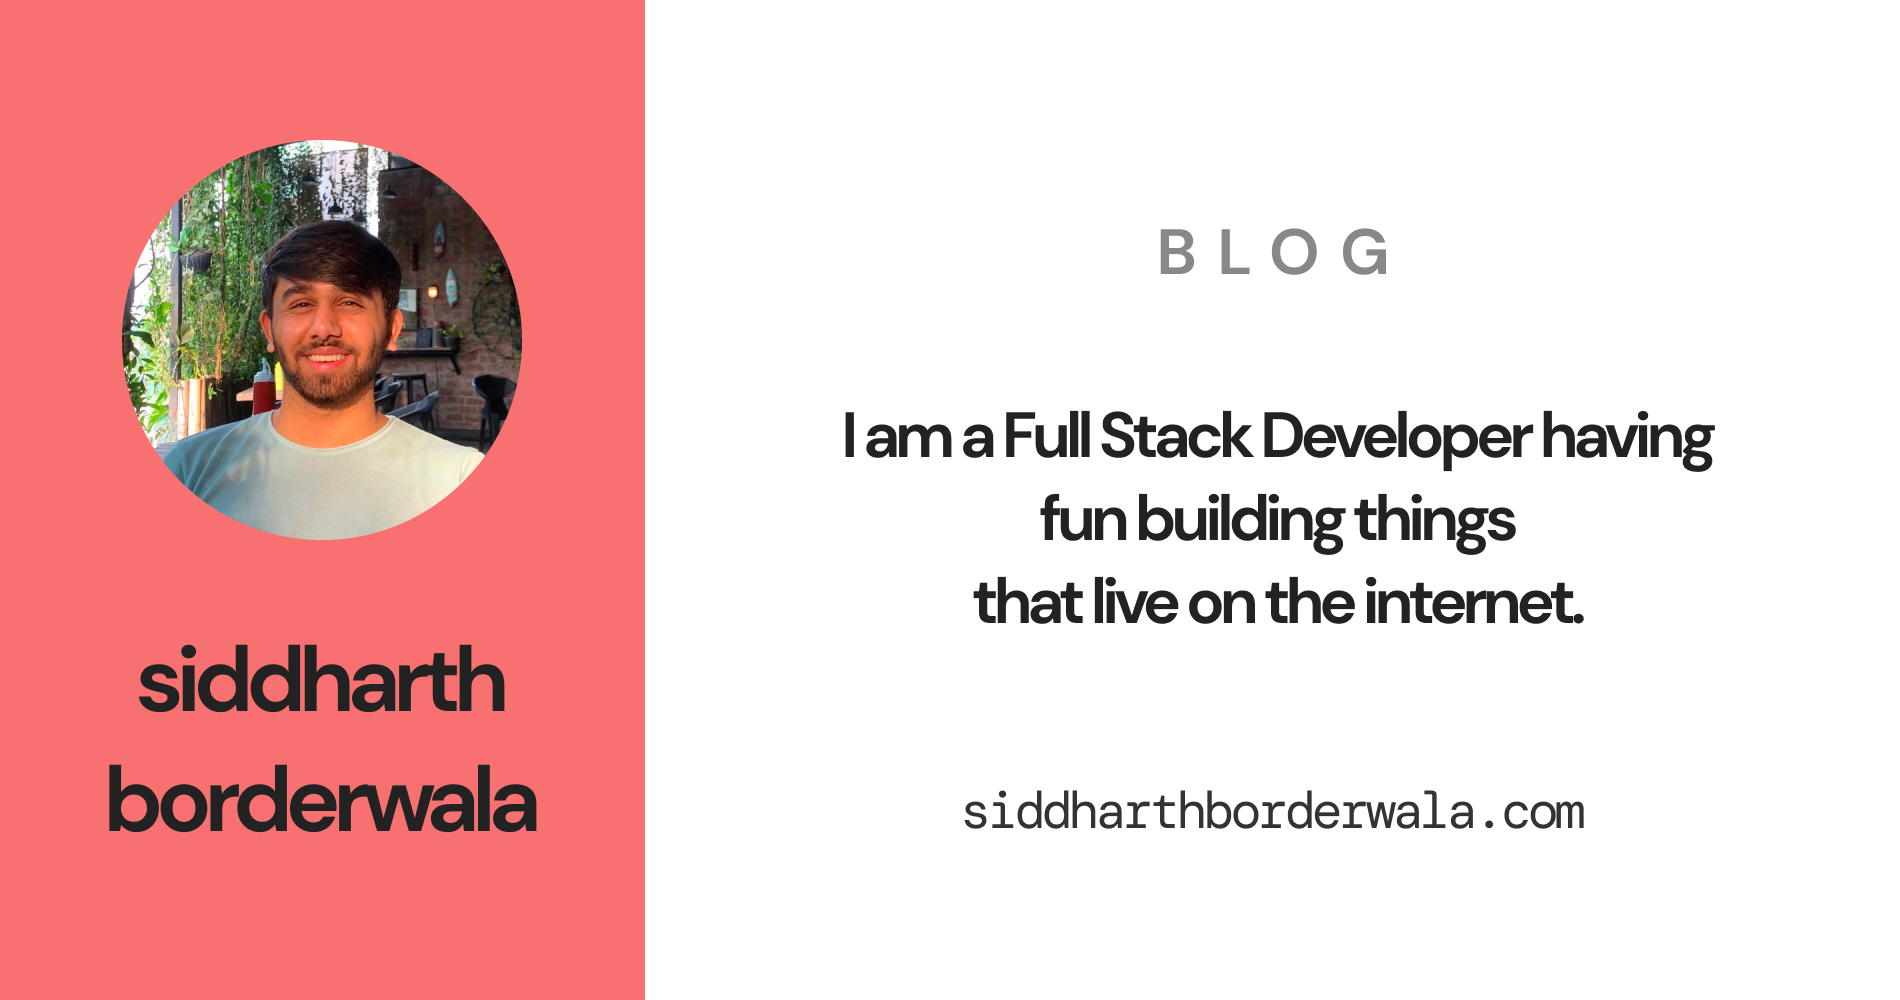
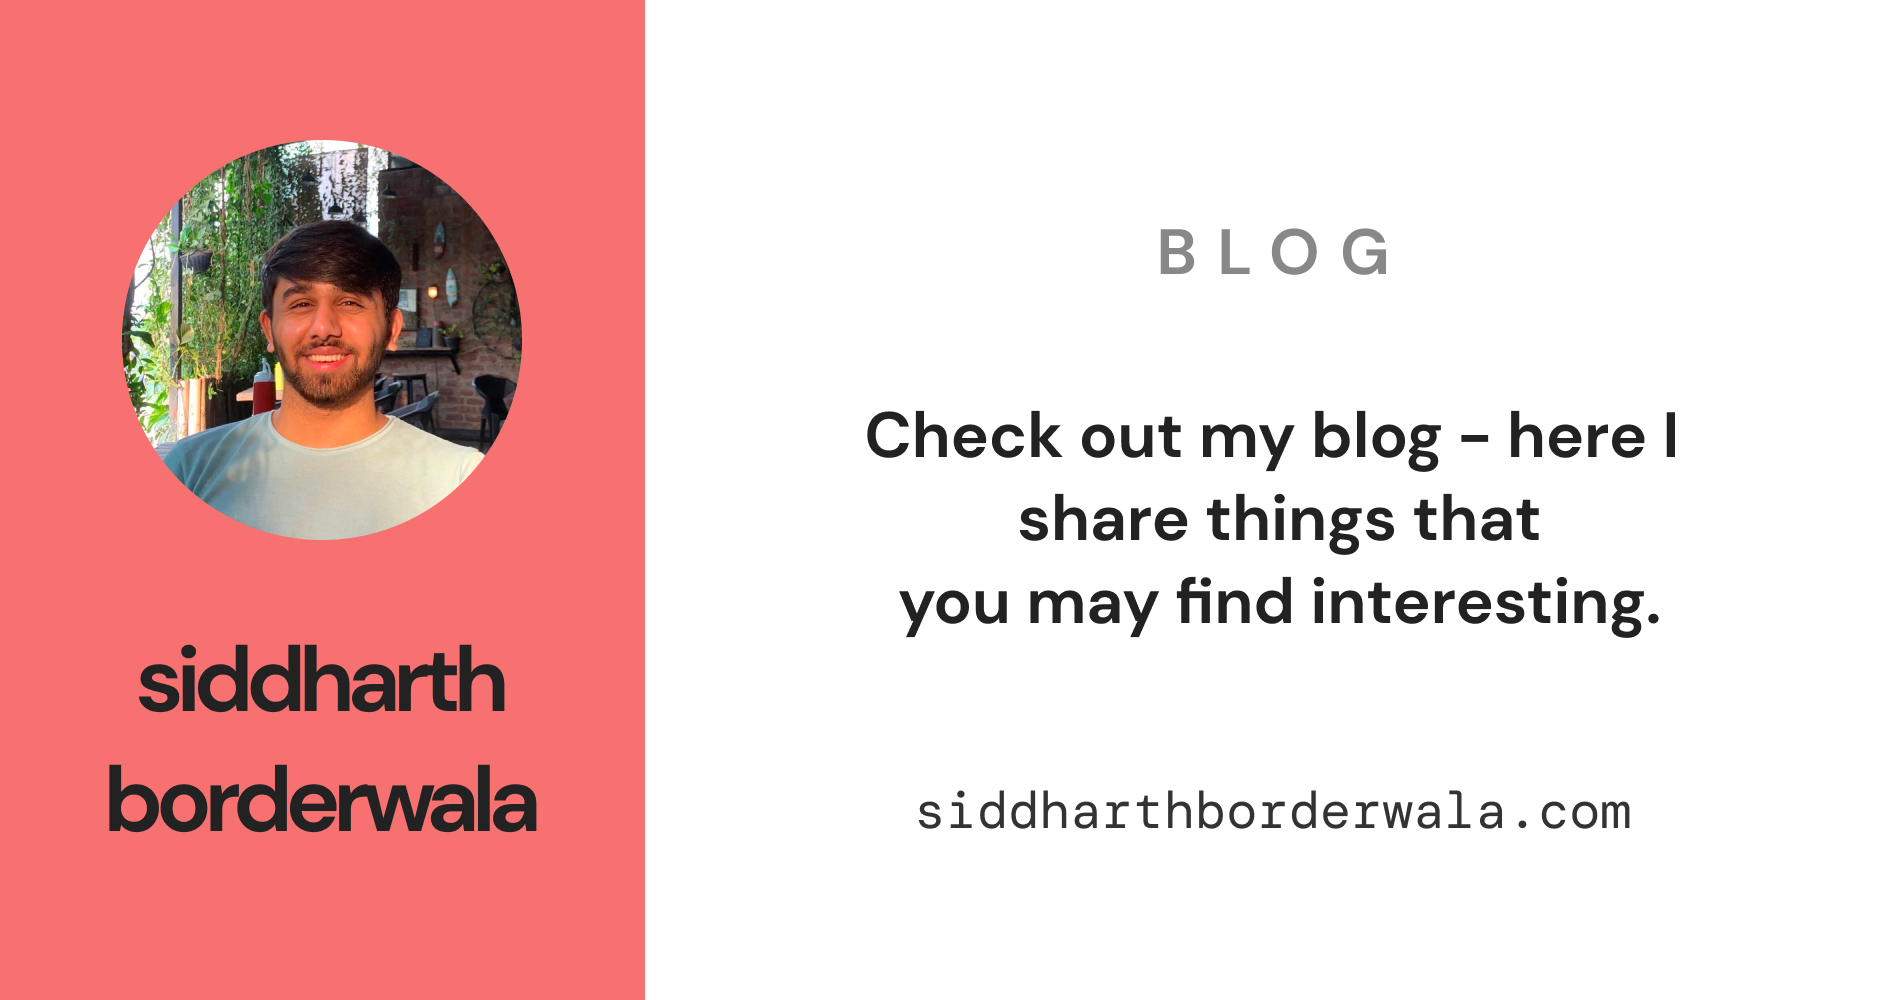
fixes

Changed region(s): [[0.4347, 0.403, 0.9005, 0.651], [0.4658, 0.775, 0.8695, 0.837]]

diff --git a/src/app/contact/page.tsx b/src/app/contact/page.tsx
@@ -12,12 +12,10 @@ import FadeInSection from '~/components/fade-in-section';
 
 export const metadata: Metadata = {
   title: 'Contact | Siddharth Borderwala',
-  description:
-    'I am Siddharth Borderwala, a full-stack developer specializing in front-end development. Contact me from here and I will get back to you in a day!',
+  description: 'Reach out to me via twitter, email or telegram.',
   openGraph: {
     title: 'Contact | Siddharth Borderwala',
-    description:
-      'I am Siddharth Borderwala, a full-stack developer specializing in front-end development. Contact me from here and I will get back to you in a day!',
+    description: 'Reach out to me via twitter, email or telegram.',
     url: 'https://siddharthborderwala.com',
     type: 'website',
     images: [
@@ -33,8 +31,7 @@ export const metadata: Metadata = {
     site: 'siddharthborderwala',
     card: 'summary_large_image',
     title: 'Contact | Siddharth Borderwala',
-    description:
-      'I am Siddharth Borderwala, a full-stack developer specializing in front-end development. Contact me from here and I will get back to you in a day!',
+    description: 'Reach out to me via twitter, email or telegram.',
     images: [
       {
         url: 'https://siddharthborderwala.com/social-contact.png',

diff --git a/src/app/blog/page.tsx b/src/app/blog/page.tsx
@@ -60,11 +60,11 @@ const getAllBlogPosts = async () => {
 export const metadata: Metadata = {
   title: 'Blog | Siddharth Borderwala',
   description:
-    'View all the blog posts by Siddharth Borderwala - a computer science undergrad and a full-stack web engineer specializing in the javascript ecosystem.',
+    'Check out my blog - here I share things that you may find interesting.',
   openGraph: {
     title: 'Blog | Siddharth Borderwala',
     description:
-      'View all the blog posts by Siddharth Borderwala - a computer science undergrad and a full-stack web engineer specializing in the javascript ecosystem.',
+      'Check out my blog - here I share things that you may find interesting.',
     url: 'https://siddharthborderwala.com',
     type: 'website',
     images: [
@@ -81,7 +81,7 @@ export const metadata: Metadata = {
     card: 'summary_large_image',
     title: 'Blog | Siddharth Borderwala',
     description:
-      'View all the blog posts by Siddharth Borderwala - a computer science undergrad and a full-stack web engineer specializing in the javascript ecosystem.',
+      'Check out my blog - here I share things that you may find interesting.',
     images: [
       {
         url: 'https://siddharthborderwala.com/social-blog.png',

diff --git a/src/app/work/page.tsx b/src/app/work/page.tsx
@@ -8,11 +8,11 @@ import { Metadata } from 'next';
 export const metadata: Metadata = {
   title: 'Work | Siddharth Borderwala',
   description:
-    'Know more about the work done by me - a computer science undergrad and a full-stack web engineer specializing in the javascript ecosystem.',
+    'Find out about the work I have done so far and what I am interested in.',
   openGraph: {
     title: 'Work | Siddharth Borderwala',
     description:
-      'Know more about the work done by me - a computer science undergrad and a full-stack web engineer specializing in the javascript ecosystem.',
+      'Find out about the work I have done so far and what I am interested in.',
     url: 'https://siddharthborderwala.com',
     type: 'website',
     images: [
@@ -29,7 +29,7 @@ export const metadata: Metadata = {
     card: 'summary_large_image',
     title: 'Work | Siddharth Borderwala',
     description:
-      'Know more about the work done by me - a computer science undergrad and a full-stack web engineer specializing in the javascript ecosystem.',
+      'Find out about the work I have done so far and what I am interested in.',
     images: [
       {
         url: 'https://siddharthborderwala.com/social-work.png',

diff --git a/next-sitemap.config.js b/next-sitemap.config.js
@@ -1,0 +1,16 @@
+/** @type {import('next-sitemap').IConfig} */
+module.exports = {
+  siteUrl: 'https://siddharthborderwala.com',
+  autoLastmod: true,
+  generateRobotsTxt: true,
+  robotsTxtOptions: {
+    policies: [
+      {
+        userAgent: '*',
+        allow: '*',
+      },
+    ],
+  },
+  generateIndexSitemap: false,
+  trailingSlash: false,
+};
